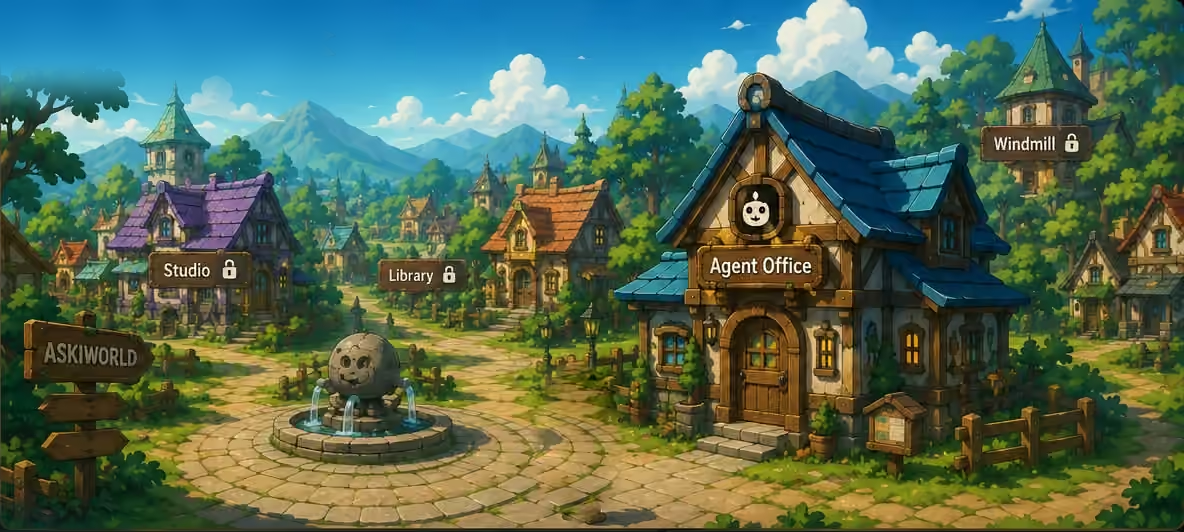
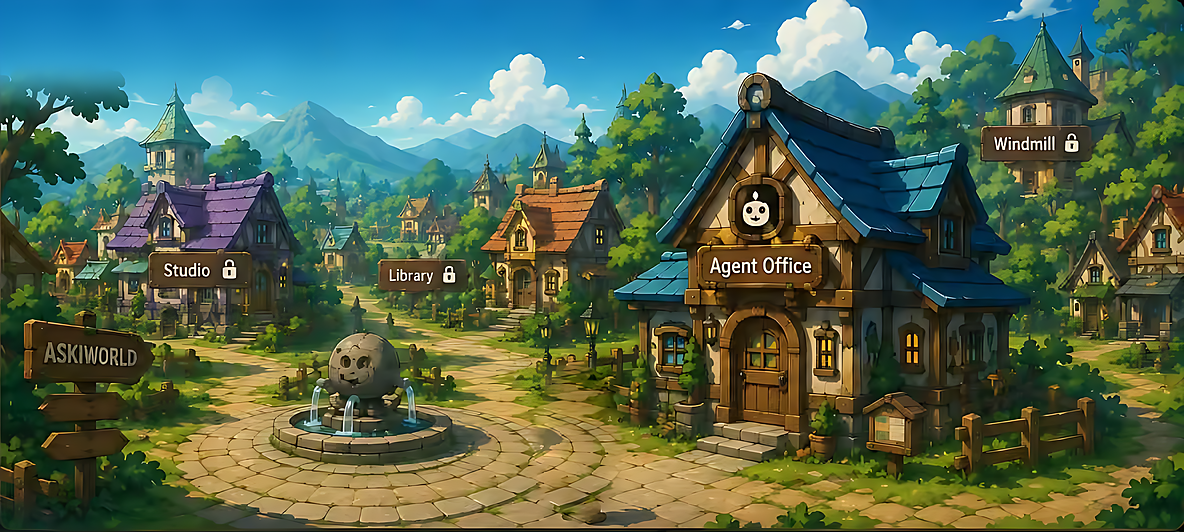
[verified] feat: add responsive AI-enhanced village backgrounds

diff --git a/atlas.js b/atlas.js
@@ -3,6 +3,8 @@
 
   const SOURCES = {
     village: './assets/village.png',
+    villageHD: './assets/village-hd.webp',
+    villageUHD: './assets/village-uhd.webp',
     characterBack: './assets/character-back.png',
     characterFront: './assets/character-front.png',
     characterSide: './assets/character-side.png',
@@ -18,19 +20,32 @@
   };
 
   async function load() {
-    await Promise.all(Object.values(SOURCES).map(async (source) => {
+    const movementSprites = [
+      SOURCES.characterBack,
+      SOURCES.characterFront,
+      SOURCES.characterSide,
+    ].map(async (source) => {
       const image = new Image();
       image.src = source;
       await image.decode();
-    }));
+    });
 
     document.querySelectorAll('[data-asset]').forEach((element) => {
+      if (element.dataset.asset === 'village') {
+        element.sizes = '(max-width: 760px) 1024px, 100vw';
+        element.srcset = `${SOURCES.village} 1184w, ${SOURCES.villageHD} 2368w, ${SOURCES.villageUHD} 4736w`;
+        element.src = SOURCES.village;
+        return;
+      }
       element.src = SOURCES[element.dataset.asset];
     });
 
-    await Promise.all([...document.querySelectorAll('[data-asset]')].map(async (image) => {
-      if (image.decode) await image.decode();
-    }));
+    await Promise.all([
+      ...movementSprites,
+      ...[...document.querySelectorAll('[data-asset]')].map(async (image) => {
+        if (image.decode) await image.decode();
+      }),
+    ]);
 
     app.classList.remove('is-loading');
     app.setAttribute('aria-busy', 'false');

diff --git a/README.md b/README.md
@@ -10,6 +10,12 @@
 - Agent Office 건물을 누르면 캐릭터가 문 앞으로 자동 이동합니다.
 - 문 앞에서 `E`, `Enter` 또는 화면의 입장 버튼을 누르면 Agent Office로 이동합니다.
 
+## 배경 화질
+
+- Real-ESRGAN AI super-resolution으로 복원한 표준·HD·UHD 배경을 제공합니다.
+- 브라우저 `srcset`이 화면 폭과 pixel density에 맞춰 `1184px`, `2368px`, `4736px` 소스를 자동 선택합니다.
+- 세 해상도는 같은 구도와 hotspot 좌표를 공유하며 불필요한 고해상도 중복 다운로드를 피합니다.
+
 ## 현재 연결
 
 - Agent Office: `https://subagent-aski.vercel.app/`
@@ -39,4 +45,6 @@ Playwright 검증 범위:
 - 가로·세로 overflow가 없는지
 - 모바일 touch target이 48px 이상인지
 - 캐릭터 이동과 Agent Office 입장이 동작하는지
+- 표준·HD·UHD 배경 source가 viewport에 맞게 선택되는지
+- 선택된 고해상도 배경 로드 실패 시 게임이 비활성화되는지
 - console/page 오류가 없는지
